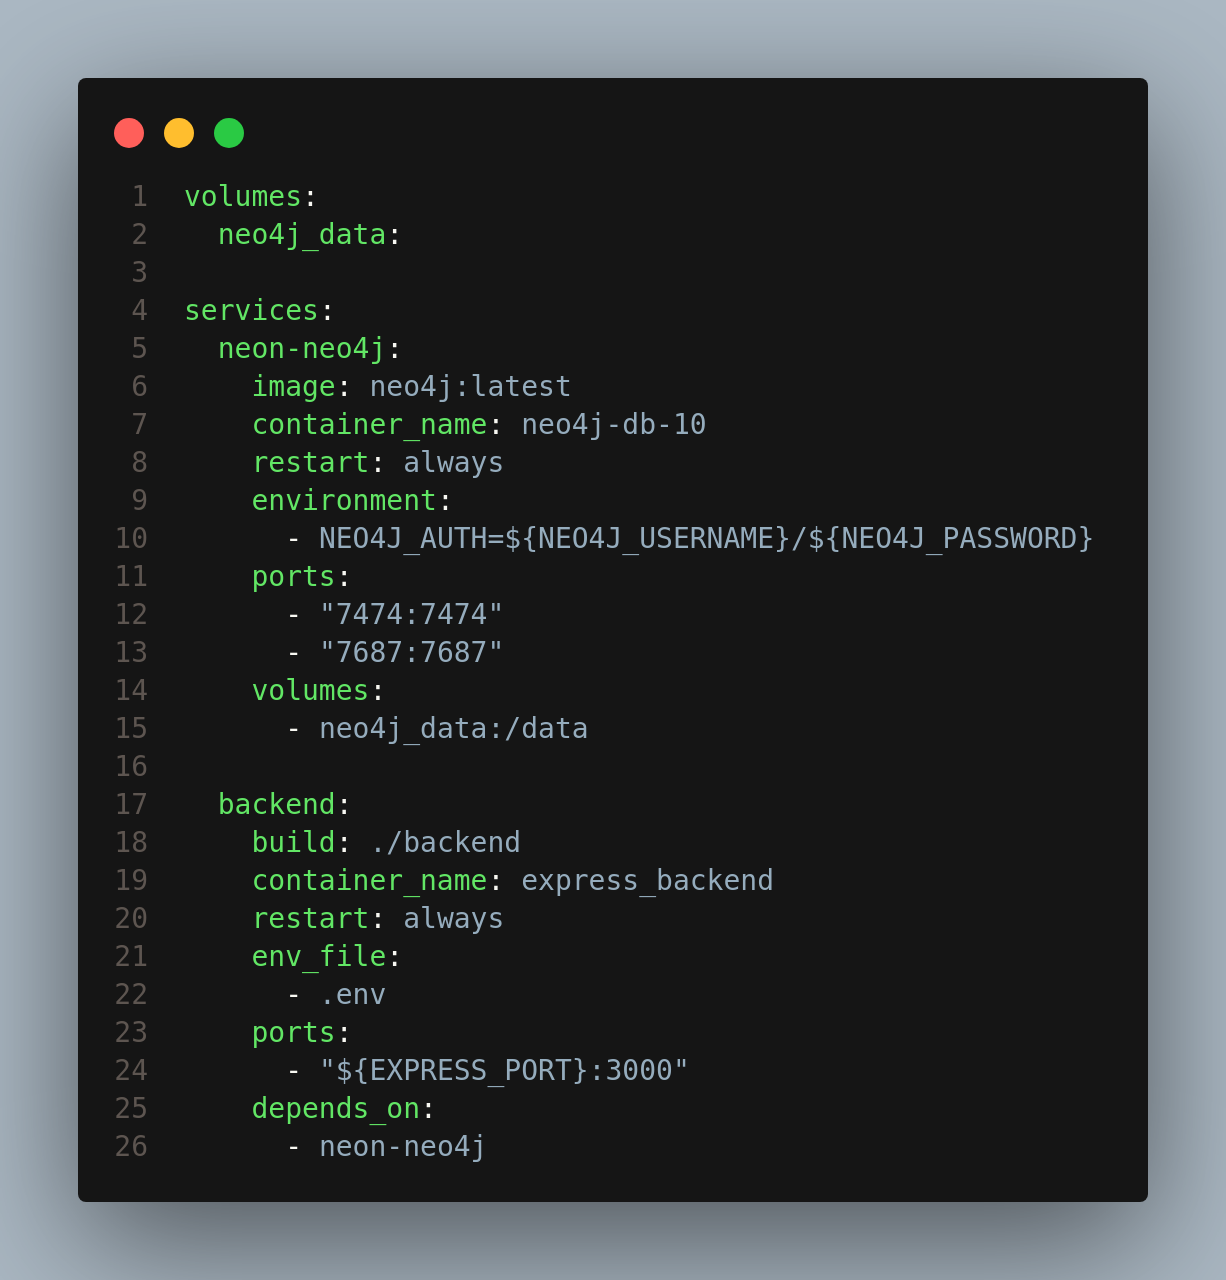
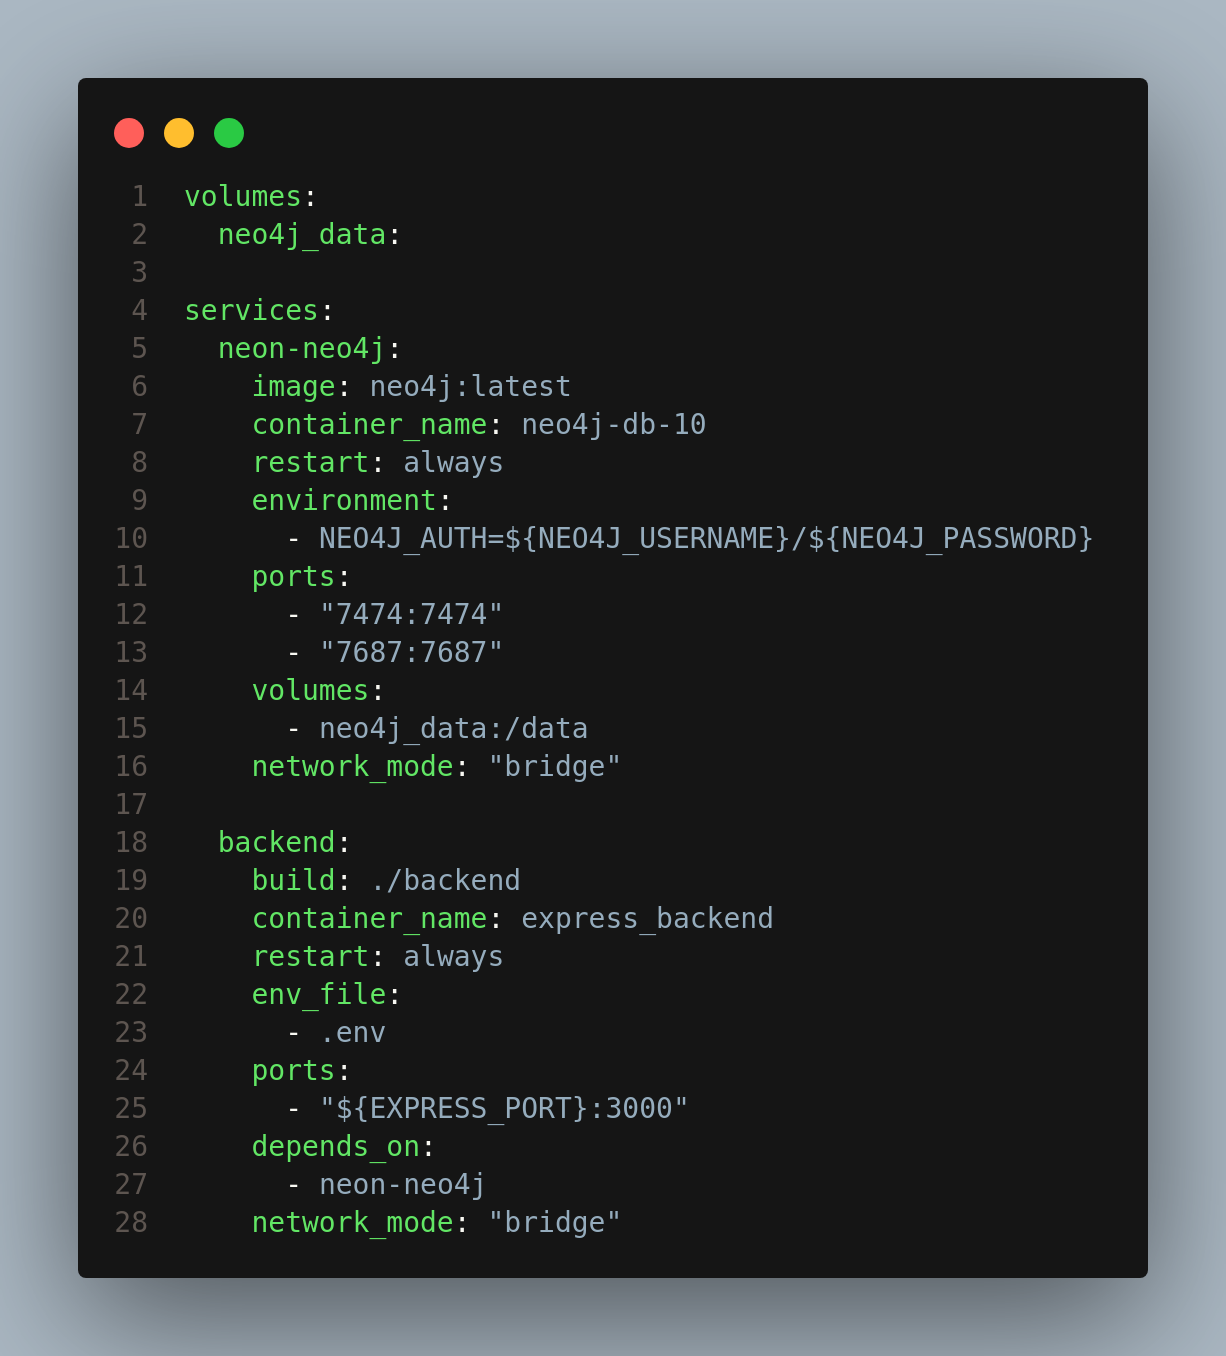
images change

diff --git a/README.md b/README.md
@@ -1,6 +1,8 @@
 # TALLER DOCKER COMPOSE
 
-Tenemos el docker compose donde declaramos los dos servicios, y modificamos el archivo [docker-compose.yml](docker-compose.yml) conectandolos por defecto a la red bridge sin declarar redes
+## DOCKER COMPOSE SIN DECLARAR REDES
+
+Tenemos el docker compose donde declaramos los dos servicios, y modificamos el archivo [docker-compose.yml](docker-compose.yml) utilizando la red bridge sin declarar una red como tal
 
 ![Docker Compose sin declarar redes](img/docker-compose_1.png)
 
@@ -10,7 +12,7 @@ Subimos nuestros servicios nuevamente con el nuevo archivo docker-compose e inte
 curl -X POST http://localhost:3000/movies \
   -H "Content-Type: application/json" \
   -d '{
-    "id": 9999,
+    "id": 99999,
     "title": "The Montecarlo Experiment",
     "original_title": "The Montecarlo Experiment",
     "overview": "Un experimento que sale mal.",
@@ -28,22 +30,11 @@ curl -X POST http://localhost:3000/movies \
 
 Esta es la salida de nuestra peticion POST
 
-![POST sin declarar redes](img/post-1.png)
+![peticion POST sin declarar redes](img/post-1.png)
 
-Estos son los logs que muestra nuestra API
+nos muestra un error de conexion con el servidor, ya que no puede identificar el nombre del servicio
 
-![LOGS sin declarar redes](img/logs-1.png)
-
-Verificamos la existencia de nuestra nueva pelicula en la base de datos mediante la siguiente consulta:
-
-```bash
-MATCH (m:Movie {id: 9999})
-RETURN m;
-```
-
-![consulta sin declarar redes](img/query-1.png)
-
-Ahi aparece definida en la segunda posicion, al parecer le atine sin querer a un id que ya existia
+## DOCKER COMPOSE DECLARANDO REDES
 
 Ahora, Subiremos nuestros servicios nuevamente con una modificacion a nuestro archivo docker-compose e intentaremos conectarnos a la base de datos con nuestra API pero esta vez declararemos una red llamada **user-defined**, configuraremos ambos servicios en esta red. asi quedaria el archivo [docker-compose.yml](docker-compose.yml)
 
